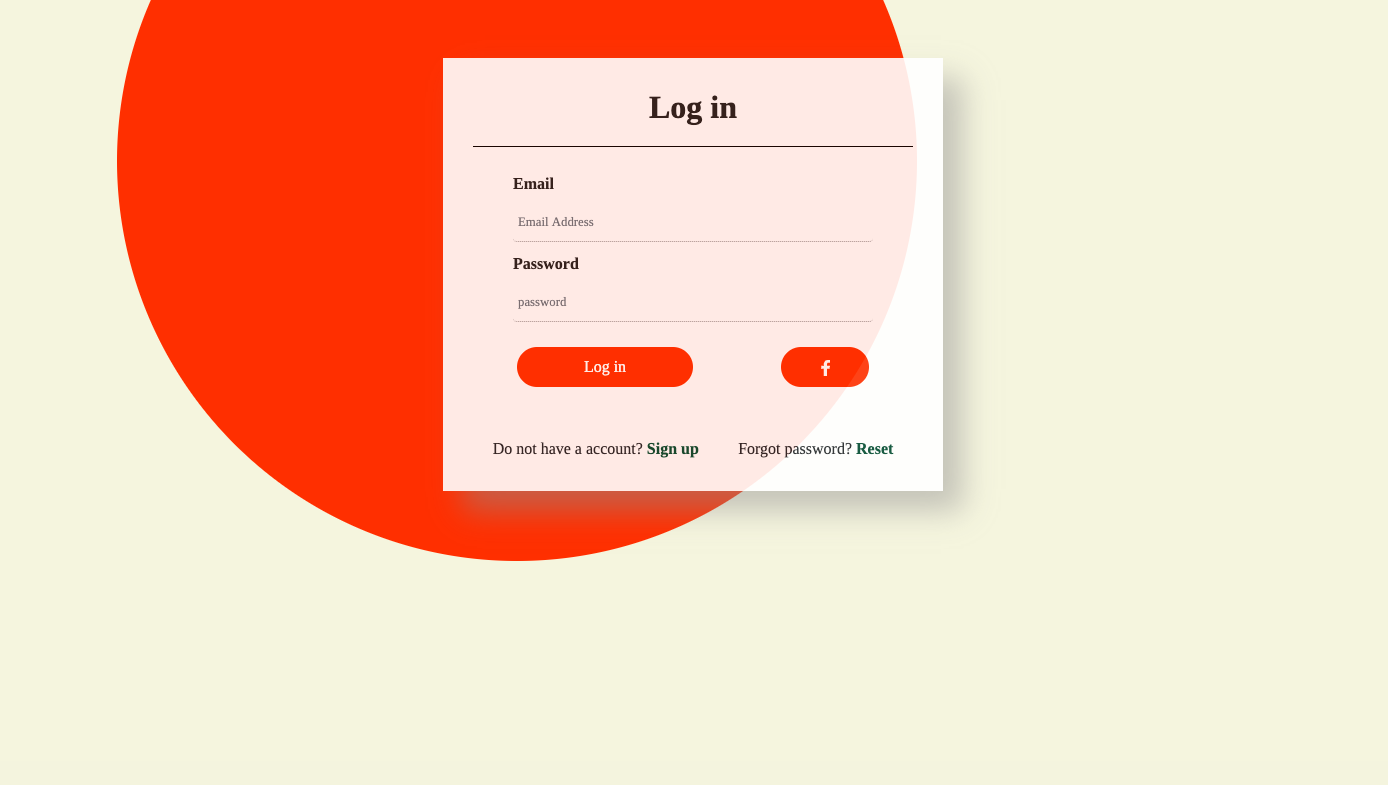
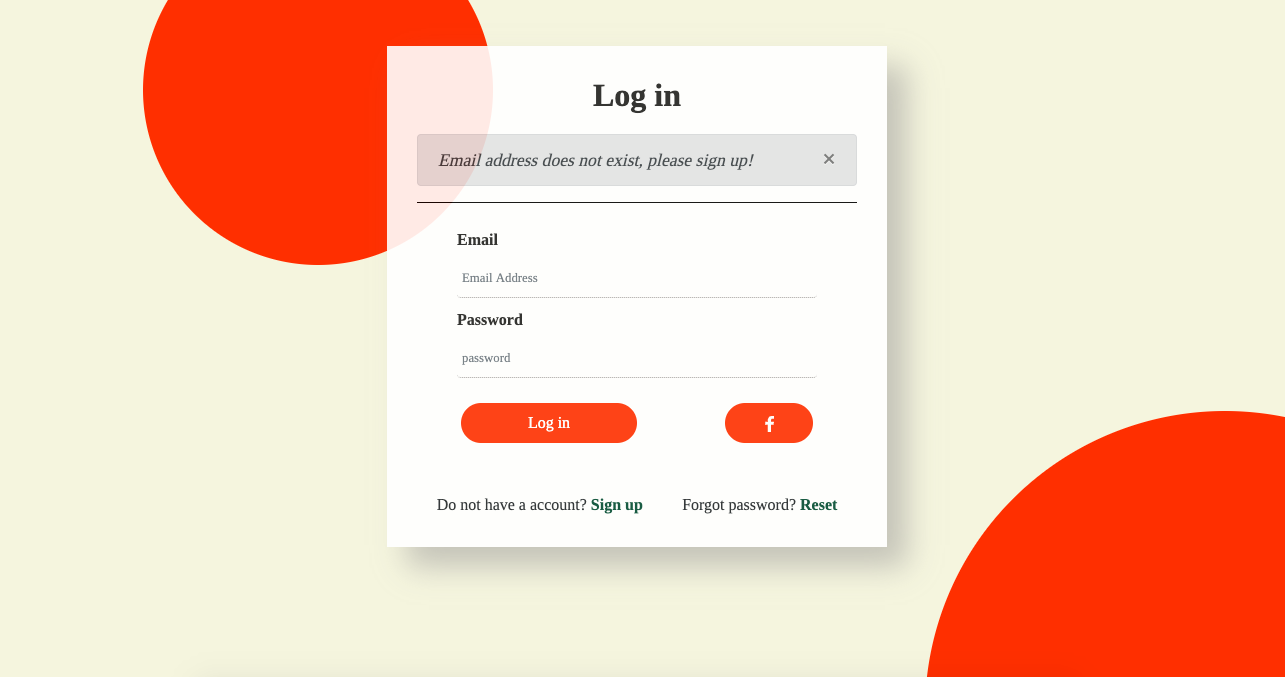
validation system completed

diff --git a/src/controllers/user.js b/src/controllers/user.js
@@ -6,6 +6,7 @@ const getSignup = (req, res) => {
         // should signup stylesheet and validation function apply?
         validationFormCSS: true,
         validationFormJS: true,
+        signUpDecorationCSS: true,
     })
 }
 const getLogin = async (req, res) => {
@@ -13,6 +14,7 @@ const getLogin = async (req, res) => {
         // should login stylesheet and validation function apply?
         validationFormCSS: true,
         validationFormJS: true,
+        logInDecorationCSS: true,
     })
 }
 const getLogout = async (req, res) => {
@@ -34,6 +36,7 @@ const postSignup = async (req, res) => {
         return res.status(400).render('signup', {
             validationFormCSS: true,
             validationFormJS: true,
+            signUpDecorationCSS: true,
             // array(): one of the methods of express-validator
             errors: result.array(),
             // represent the same input value after submit

diff --git a/public/css/main.css b/public/css/main.css
@@ -8,7 +8,33 @@ body {
     height: auto;
 }
 
-.C {
+.notification {
+    font-size: 1.1em;
+}
+
+.A {
+    width: 350px;
+    height: 350px;
+    background-color: rgb(255, 81, 0);
+    position: fixed;
+    top: -10%;
+    right: 60%;
+    border-radius: 1000px;
+    overflow: hidden;
+}
+
+.B {
+    width: 600px;
+    height: 600px;
+    background-color: rgb(255, 81, 0);
+    position: fixed;
+    top: 60%;
+    left: 70%;
+    border-radius: 1000px;
+    overflow: hidden;
+}
+
+.D {
     width: 800px;
     height: 800px;
     background-color: rgb(255, 81, 0);

diff --git a/public/css/validationForm.css b/public/css/validationForm.css
@@ -90,6 +90,11 @@ input.form-control:focus {
     border-bottom: 1px solid rgb(17, 71, 48);
 }
 
+.valid-feedback,
+.invalid-feedback {
+    font-size: 1em;
+}
+
 @media (max-width: 460px) {
     .form_aside {
         flex-direction: column;
